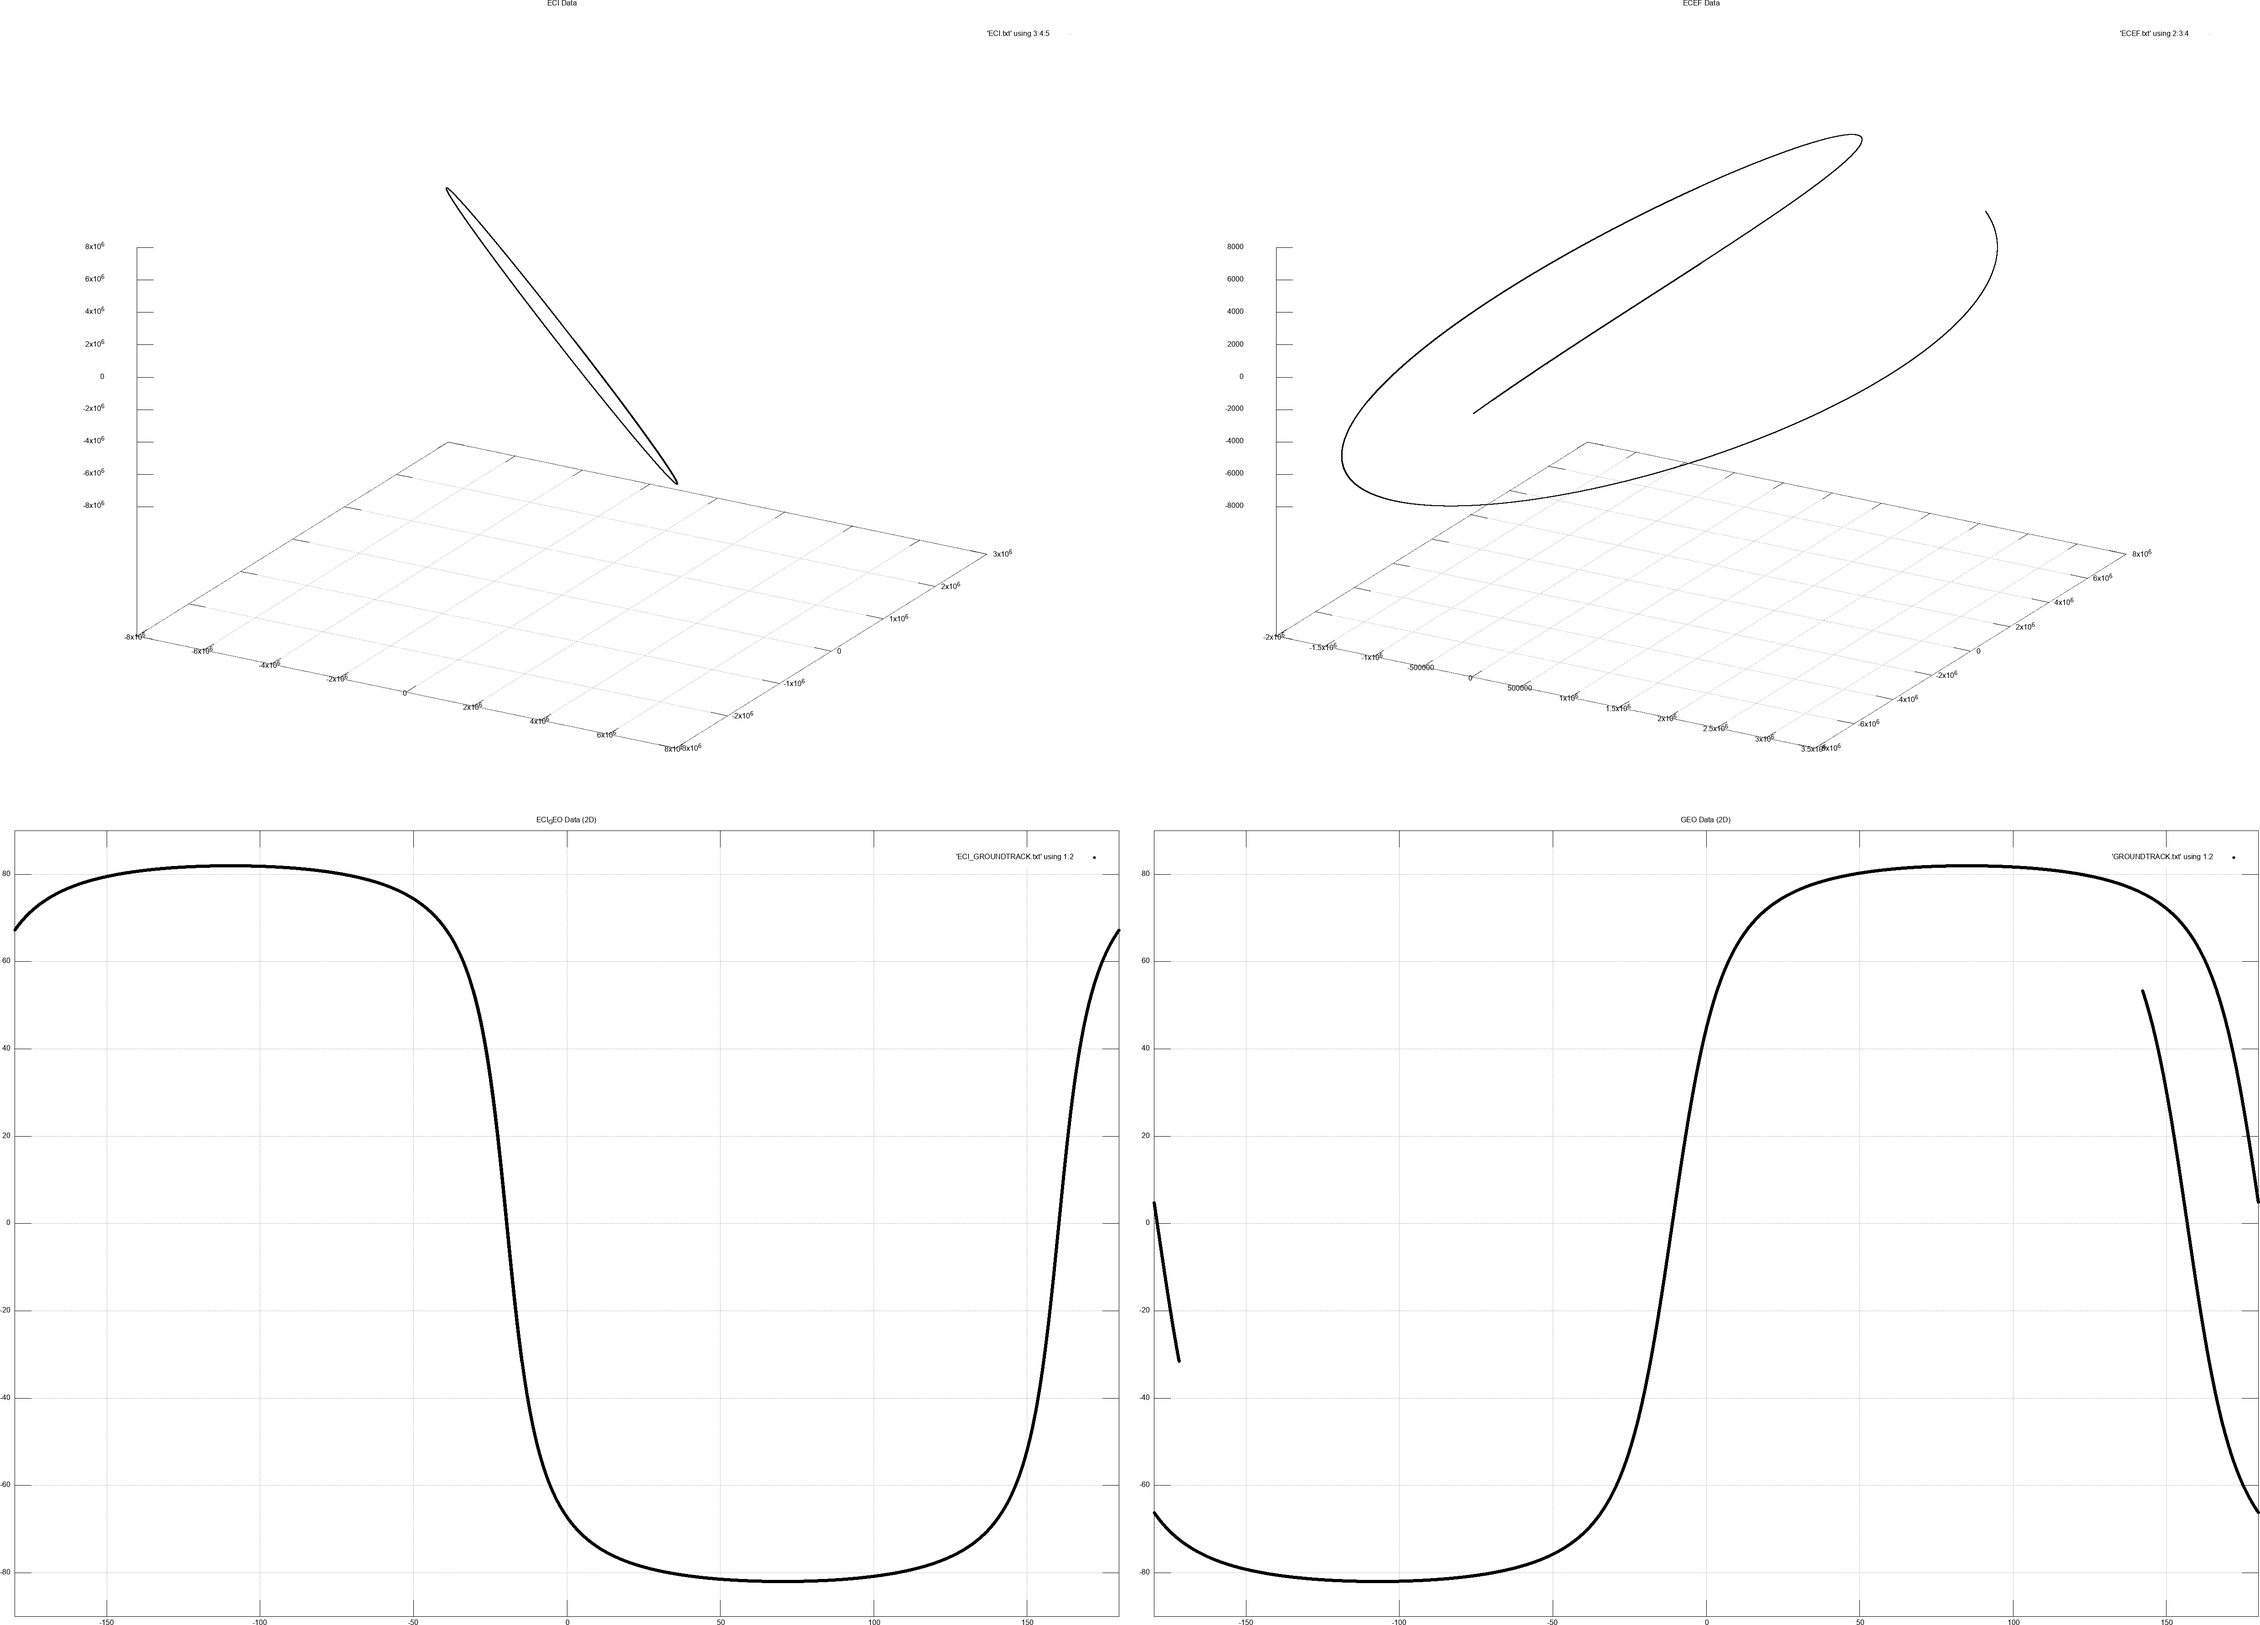
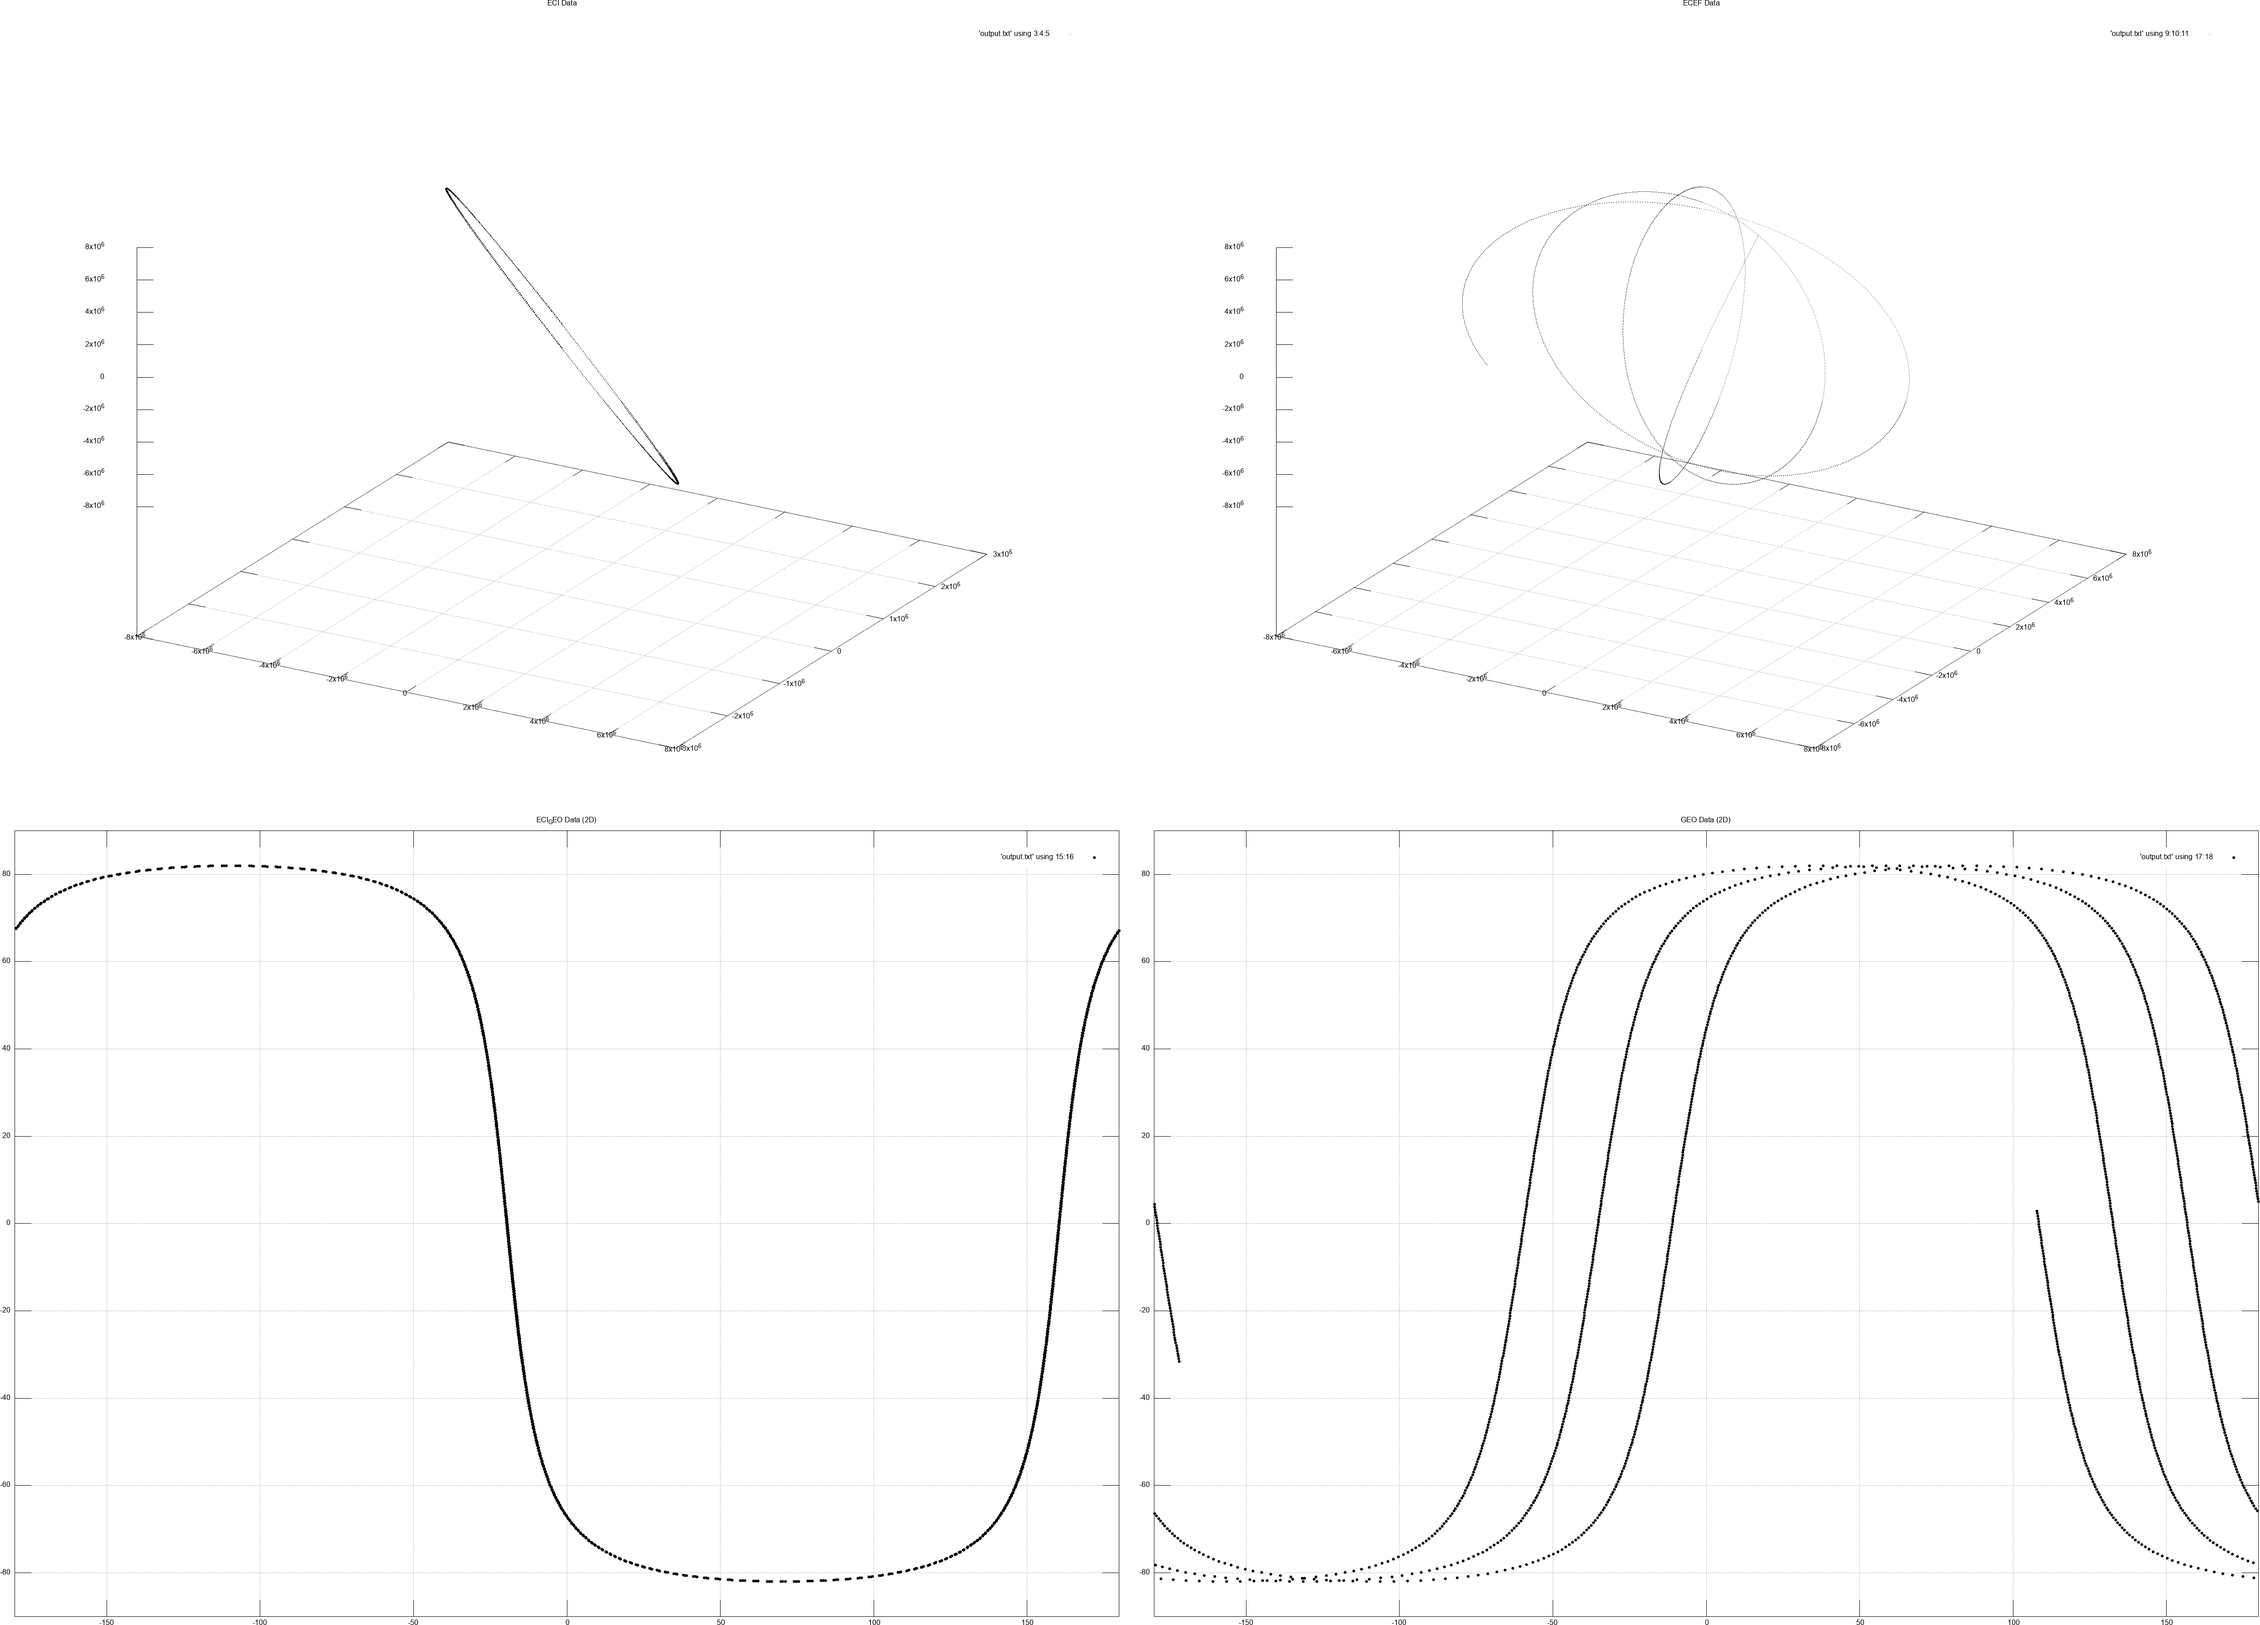
create output function to separate rk45 and file output

diff --git a/src/utils/rk45.cpp b/src/utils/rk45.cpp
@@ -37,31 +37,55 @@ void Progress_Bar(int& iteration, const int& timestep){
 
 
 
-void RungeKutta45(const double& T, const double& dt, Vector6d& x)
+
+void WriteOutputToFile(const std::string& date, const Vector6d& x, const Vector6d& ECEF, const Vector2d& GEO1, const Vector2d& GEO2) {
+
+    std::ofstream outputFile("output.txt", std::ios::out | std::ios::app);
+
+    if (!outputFile.is_open()) {
+        std::cout << "Failed to open output files!" << std::endl;
+        return; // or handle the error as needed
+    }
+
+    // Set a fixed width for each field (adjust the widths as needed)
+    const int fieldWidth = 5;
+
+    // Write each field with a fixed width and a space as a separator
+    outputFile << std::left << date;
+    outputFile << std::setw(fieldWidth) << std::left << x.transpose();
+    outputFile << std::setw(fieldWidth) << std::left << ECEF.transpose();
+    outputFile << std::setw(fieldWidth) << std::left << GEO1.transpose();
+    outputFile << std::setw(fieldWidth) << std::left << GEO2.transpose() << std::endl;  // Append a newline
+
+
+    // Ensure the data is immediately written to the file
+    outputFile.flush();
+
+    outputFile.close();
+}
+
+
+
+
+
+
+
+void RungeKutta45(const double& T, const double& dt, const int& outputFrequency, Vector6d& x)
 {
 
-    const int timestep = static_cast<int>(T/dt);
-    int iteration = 0;
-    double current_time = 0.0;
+    const int timestep      = static_cast<int>(T/dt);
+    int iteration           = 0;
+    double current_time     = 0.0;
+    
+    std::string date;
+    Vector6d k1, k2, k3, k4, delta_x; 
+    Vector6d ECEF;
+    Vector2d GEO1, GEO2;
 
 
     // Display Information on output text file
     std::cout << "\t\t...ORBIT PROPAGATING..." << std::endl << std::endl;
-    std::ofstream vOut_ECI("ECI.txt", std::ios::out | std::ios::trunc), 
-                  vOut_ECEF("ECEF.txt", std::ios::out | std::ios::trunc), 
-                  vOut_GEO1("ECI_GROUNDTRACK.txt", std::ios::out | std::ios::trunc),
-                  vOut_GEO2("GROUNDTRACK.txt", std::ios::out | std::ios::trunc);
-    vOut_ECI << std::fixed << std::setprecision(6);
-
-
-    if (!vOut_ECI.is_open() || !vOut_ECEF.is_open() || !vOut_GEO1.is_open() || !vOut_GEO2.is_open()) {
-        std::cout << "Failed to open output files!" << std::endl;
-        return; // or handle the error as needed
-    }
-   
-    // Initialise Vectorcd
-    Vector6d k1, k2, k3, k4; 
-
+    
     // Perform Runge-Kutta algorithm
     while (current_time < T ) {
 
@@ -73,35 +97,24 @@ void RungeKutta45(const double& T, const double& dt, Vector6d& x)
 
         k4 = f(x + dt * k3, current_time);
 
-        Vector6d delta_x = (1.0 / 6.0) * (k1 + 2.0 * k2 + 2.0 * k3 + k4) * dt;
-
-        // Check if the maximum absolute value in delta_x is less than the tolerance
-        if (delta_x.cwiseAbs().maxCoeff() < 1e-15 ) {
-            break;  // Exit the loop if the tolerance is satisfied
-        }
+        delta_x.noalias() = (1.0 / 6.0) * (k1 + 2.0 * k2 + 2.0 * k3 + k4) * dt;
 
 
-        // Write output to file (ECI, ECEF, GEO)
-        Eigen::VectorXd Output_ECI(6);
-        Output_ECI << x.head<3>() , x.segment<3>(3);
-        std::string date = Time2Date(Propagator::Start_Date, current_time);
+        // Write output to file every 'outputFrequency' iterations
+        if (iteration % outputFrequency == 0) {
+            // Write output to file (ECI, ECEF, GEO)
+            date = Time2Date(Propagator::Start_Date, current_time);
 
-        vOut_ECI << date << " " << Output_ECI.transpose() << std::endl;
-        
-        // Transform ECI to ECEF and output to file 
-        Vector6d ECEF;  
-        ECEF = ECI2ECEF(x, current_time);
-        vOut_ECEF << ECEF.transpose() << std::endl;      
+            // Transform ECI to ECEF and output to file 
+            ECEF = ECI2ECEF(x, current_time);  
 
-        // Transform ECEF to GEO and output to file
-        Vector2d GEO1; 
-        GEO1 = ECEF2GEO(x);
-        vOut_GEO1 << GEO1.transpose() << std::endl;    
+            // Transform ECEF to GEO and output to file
+            GEO1 = ECEF2GEO(x);
 
-        Vector2d GEO2;
-        GEO2 = ECEF2GEO(ECEF); 
-        vOut_GEO2 << GEO2.transpose() << std::endl;    
-    
+            GEO2 = ECEF2GEO(ECEF); 
+            
+            WriteOutputToFile(date, x, ECEF, GEO1, GEO2);
+        };
         // Progress Bar Display
         Progress_Bar(iteration, timestep);
         
@@ -112,10 +125,6 @@ void RungeKutta45(const double& T, const double& dt, Vector6d& x)
    }
         
     // Finish writing and close file
-    vOut_ECI.close();
-    vOut_ECEF.close();
-    vOut_GEO1.close();
-    vOut_GEO2.close();
     std::cout << std::endl;
     std::cout << std::endl;
     std::cout << "\t\tFinished writing to file." << std::endl;

diff --git a/src/propagator.cpp b/src/propagator.cpp
@@ -20,7 +20,7 @@ typedef Eigen::Matrix<double,6,1> Vector6d;
  * @brief Takes user input orbital element and set initial coordinates
  *
  */
-void Propagator::SetParameter(const double &arg_SMA, const double &arg_e,
+void Propagator::Initialise(const double &arg_SMA, const double &arg_e,
                          const double &arg_i, const double &arg_M,
                          const double &arg_w, const double &arg_RAAN, 
                          const std::string& arg_Start_Date, 
@@ -109,7 +109,7 @@ void Propagator::Propagate() {
     const double T = Duration(Start_Date,End_Date);
 
     // Begin RK45 Integration
-    RungeKutta45(T, dt, state);
+    RungeKutta45(T, dt, output_frequency, state);
     
     // Initialise final state vector
     Vector3d Final_r = state.head<3>() ;
@@ -124,23 +124,3 @@ void Propagator::Propagate() {
     std::cout << "\t\t----------------------------------" << std::endl;
 }
 
-
-
-
-
-// Orbit::~Orbit() {
-//   r_perifocal.clear();
-//   v_perifocal.clear();
-//   r_ECI.clear();
-//   v_ECI.clear();
-//   r_0.clear();
-//   v_0.clear();
-//   x.clear();
-//   x_dot.clear();
-//   a_total.clear();
-//   a_gravity.clear();
-//   a_oblateness.clear();
-//   r_final.clear();
-//   v_final.clear();
-//   RotMatrix_P2ECI.clear();
-// };

diff --git a/include/propagator.h b/include/propagator.h
@@ -16,6 +16,7 @@ class Propagator {
     private:
         
         double dt = 0.015625;
+        int output_frequency = 640;
     
     public:
 
@@ -34,7 +35,7 @@ class Propagator {
         Vector6d state;
 
         // Define the initial conditions from the uesr input
-        void SetParameter(const double &arg_SMA, const double &arg_e, const double &arg_i,
+        void Initialise(const double &arg_SMA, const double &arg_e, const double &arg_i,
                           const double &arg_M, const double &arg_w,
                           const double &arg_RAAN, const std::string& arg_Start_Date, const std::string& arg_End_Date);
         

diff --git a/src/main.cpp b/src/main.cpp
@@ -13,7 +13,7 @@ int main(int argc, char *argv[]) {
     Propagator prop;
 
 
-    prop.SetParameter(data.SMA, data.e, data.i, data.M, data.w, data.RAAN, data.Start_Date, data.End_Date);
+    prop.Initialise(data.SMA, data.e, data.i, data.M, data.w, data.RAAN, data.Start_Date, data.End_Date);
 
     prop.Propagate();
 

diff --git a/include/utils/rk45.h b/include/utils/rk45.h
@@ -6,7 +6,7 @@ using namespace Eigen;
 typedef Eigen::Matrix<double,6,1> Vector6d;
 
 
-extern void RungeKutta45(const double& T, const double& dt, Vector6d& x);
+extern void RungeKutta45(const double& T, const double& dt, const int& outputFrequency, Vector6d& x);
 
 
 
